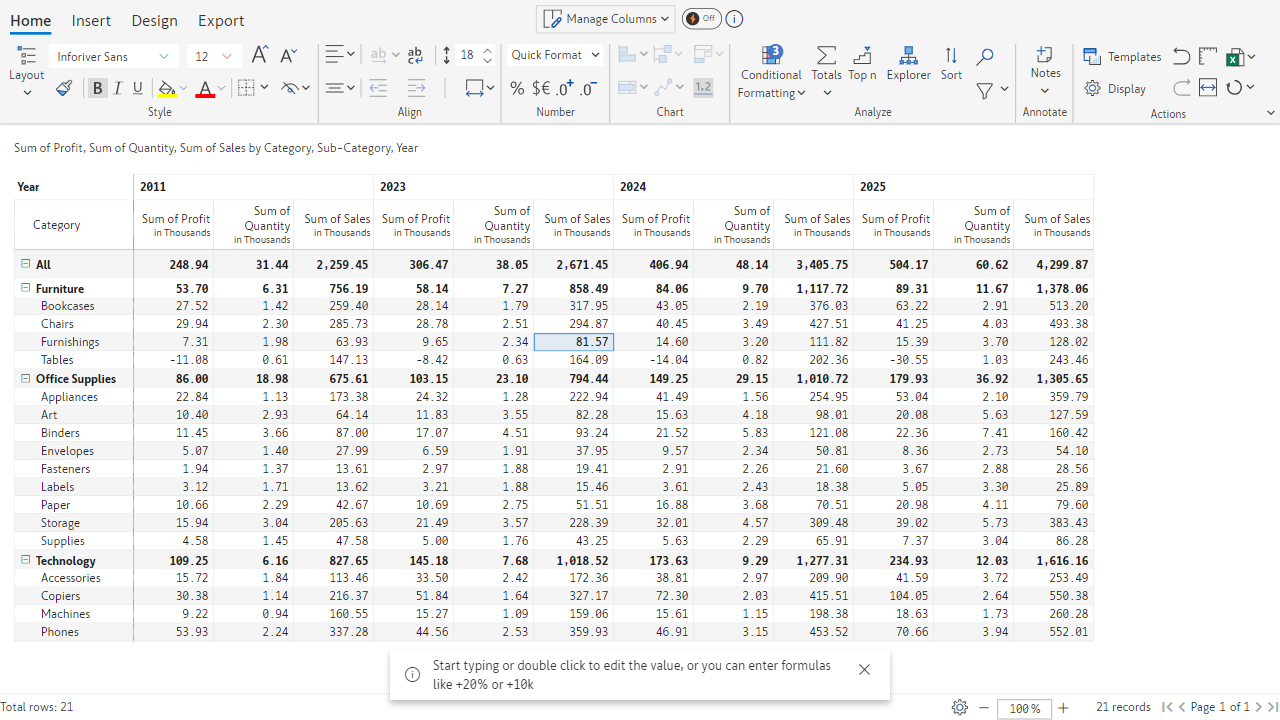
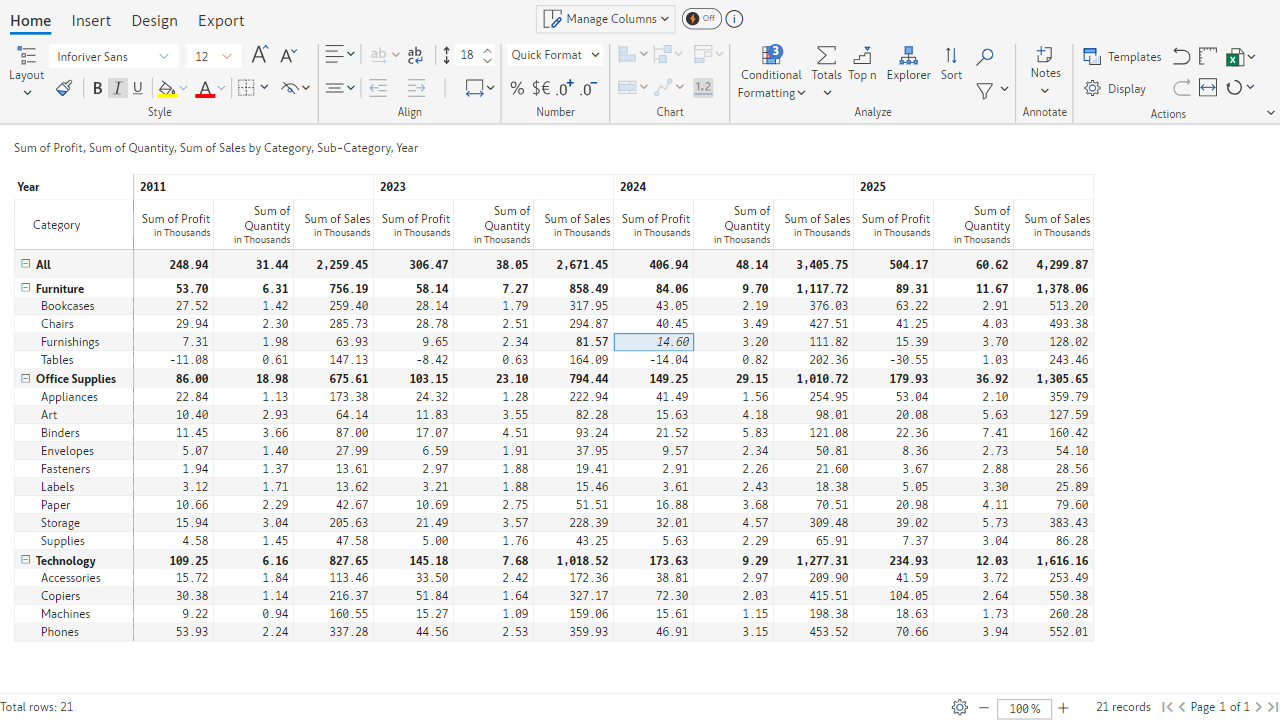
main

Changed region(s): [[0.3125, 0.9167, 0.6875, 0.9778], [0.4062, 0.4583, 0.5625, 0.4889], [0.0625, 0.0917, 0.0938, 0.1528]]

diff --git a/tests/inforiver-matrix-assert/xpaths/xpaths06.js b/tests/inforiver-matrix-assert/xpaths/xpaths06.js
@@ -1,0 +1,55 @@
+
+
+const data06 = require("../data/data06");
+
+const xpaths06 = {
+    tableHeading: `//div[@id='headerEditor']//span[text()='${data06.tableHeading}']`,
+
+    centerHeader: `//span[text()='${data06.centerHeader}']`,
+    rowHeader: `//span[text()='${data06.centerHeader}']/ancestor::div[8]/following-sibling::div//span[text()='${data06.rowHeaderCellValue00}']`,
+    columnHeader: `//span[text()='${data06.centerHeader}']/ancestor::div[5]/following-sibling::div/div[contains(@id,'${data06.yearId00}') and contains(@id,'${data06.metricId00}')]`,
+
+    cellValue: `(//span[@role='cell' and text()='${data06.matrixCellValue00}'])[1]`,
+
+    homeTab: `//ol//span[text()='${data06.tabListItem01}']`,
+    insertTab: `//ol//span[text()='${data06.tabListItem02}']`,
+    designTab: `//ol//span[text()='${data06.tabListItem03}']`,
+    exportTab: `//ol//span[text()='${data06.tabListItem04}']`,
+
+    boldOption: `//div[@data-label='${data06.tabListItem01}']//span[contains(@class,'${data06.boldClass}')]`,
+    underlineOption: `//div[@data-label='${data06.tabListItem01}']//span[contains(@class,'${data06.underlineClass}')]`,
+    italicOption: `//div[@data-label='${data06.tabListItem01}']//span[contains(@class,'${data06.italicClass}')]`,
+
+    fillcolorIcon: `(//div[@data-label = 'Home']//descendant::div[contains(@class,'colorpicker')]/descendant::i)[1]`,
+    fillColorDefaultColor: `//div[@data-label='Home']//div[contains(@class,'colorpicker')]//i[contains(@style, 'border-bottom') and contains(@style, 'rgb(255, 255, 0)')]`,
+    fillColorDropdownArrow: `(//div[@data-label = 'Home']//descendant::div[contains(@class,'colorpicker')]/descendant::i)[2]`,
+    fillColorModal: `//div[@class='bf-ui-colopicker-modal']`,
+    fillColorPaletteColor: `//div[@class='bf-ui-colopicker-modal']/div[@class='bf-ui-colopicker-Palette']//*[local-name()='svg']//*[local-name()='rect' and @fill='${data06.paletteColor}']`,
+
+    fillColorCustomColorBtn: `//div[@class='bf-ui-colopicker-modal']/div[@class='bf-ui-colopicker-Palette']/following-sibling::div[contains(@class,'bf-ui-colopicker-custom-picker-div')]`,
+    fillColorCustomColorModal: `//div[contains(@class,'bf-ui-colopicker-custom-modal')]`,
+    fillColorCustomColorTypeDiv: `//div[@aria-haspopup='listbox']`,
+    fillColorCustomColorTypeDivMenu: `//div[@role='menu']`,
+    fillColorCustomColorTypeDivMenuOption: `//span[text()='${data06.colorCode01}']`,
+    fillColorCustomColorTypeDivMenuResult: `//div[@aria-haspopup='listbox']//*[text()='${data06.colorCode01}']`,
+    fillColorCustomColorColorCodeInput: `//div[@aria-haspopup='listbox']/../following-sibling::div/input`,
+    fillColorModalSaveBtn: `//button[text()='Save']`,
+
+
+    fontcolorIcon: `(//div[@data-label = 'Home']//descendant::div[contains(@class,'colorpicker')]/descendant::i)[3]`,
+    fontcolorDefaultColor: `//div[@data-label='Home']//div[contains(@class,'colorpicker')]//i[contains(@style, 'border-bottom') and contains(@style, 'rgb(255, 0, 10)')]`,
+    fontColorDropdownArrow: `(//div[@data-label = 'Home']//descendant::div[contains(@class,'colorpicker')]/descendant::i)[4]`,
+    fontColorModal: `//div[@class='bf-ui-colopicker-modal']`,
+    fontColorPaletteColor: `//div[@class='bf-ui-colopicker-modal']/div[@class='bf-ui-colopicker-Palette']//*[local-name()='svg']//*[local-name()='rect' and @fill='${data06.paletteColor}']`,
+
+    fontColorCustomColorBtn: `//div[@class='bf-ui-colopicker-modal']/div[@class='bf-ui-colopicker-Palette']/following-sibling::div[contains(@class,'bf-ui-colopicker-custom-picker-div')]`,
+    fontColorCustomColorModal: `//div[contains(@class,'bf-ui-colopicker-custom-modal')]`,
+    fontColorCustomColorTypeDiv: `//div[@aria-haspopup='listbox']`,
+    fontColorCustomColorTypeDivMenu: `//div[@role='menu']`,
+    fontColorCustomColorTypeDivMenuOption: `//span[text()='${data06.colorCode01}']`,
+    fontColorCustomColorTypeDivMenuResult: `//div[@aria-haspopup='listbox']//*[text()='${data06.colorCode01}']`,
+    fontColorCustomColorColorCodeInput: `//div[@aria-haspopup='listbox']/../following-sibling::div/input`,
+    fontColorModalSaveBtn: `//button[text()='Save']`,
+};
+
+module.exports = xpaths06;

diff --git a/tests/inforiver-matrix-assert/pages/StyleSegmentAssert.js b/tests/inforiver-matrix-assert/pages/StyleSegmentAssert.js
@@ -1,0 +1,70 @@
+const { I } = inject();
+const data06 = require('../data/data06')
+const xpaths06 = require('../xpaths/xpaths06')
+const assert = require('assert');
+
+class StyleSegmentAssert {
+    async pageLoad() {
+        await I.amOnPage(data06.webPage);
+    }
+    //bold
+    async assertCellBold() {
+        await I.seeElement(`(//span[@role='cell' and text()='${data06.matrixCellValue00}'])`);
+        //
+        await I.click(`(//span[@role='cell' and text()='${data06.matrixCellValue00}'])[1]`);
+        await I.wait(1);
+        await I.waitForElement(xpaths06.boldOption, 5);
+
+        await I.moveCursorTo(xpaths06.boldOption);
+        await I.wait(1);
+        await I.click(xpaths06.boldOption);
+
+        await I.wait(1);
+        //plain assertion
+        //await I.seeElement(`(//span[@role='cell' and text()='${data06.matrixCellValue00}' and contains(@style, '${data06.boldResultStyle}')])[1]`);
+
+        const actualStyleBold = await I.grabAttributeFrom(`(//span[@role='cell' and text()='${data06.matrixCellValue00}'])[1]`,'style')
+        const expectedStyleBold = actualStyleBold.includes(data06.boldResultStyle)
+        I.assertEqual(expectedStyleBold,true,'error - value mismatch')
+    }
+    //italic
+    async assertCellItalic() {
+        await I.seeElement(`(//span[@role='cell' and text()='${data06.matrixCellValue01}'])[1]`);
+        await I.click(`(//span[@role='cell' and text()='${data06.matrixCellValue01}'])[1]`);
+        await I.wait(1);
+        await I.waitForElement(xpaths06.italicOption, 5);
+
+        await I.moveCursorTo(xpaths06.italicOption);
+        await I.wait(1);
+        await I.click(xpaths06.italicOption);
+
+        await I.wait(1);
+        //plain assert
+        // await I.seeElement(`(//span[@role='cell' and text()='${data06.matrixCellValue01}' and contains(@style, '${data06.italicResultStyle}')])[1]`);
+
+        const actualStyleItalic = await I.grabAttributeFrom(`(//span[@role='cell' and text()='${data06.matrixCellValue01}'])[1]`,'style')
+        const expectedStyleItalic = actualStyleItalic.includes(data06.italicResultStyle)
+        I.assertEqual(expectedStyleItalic,true,'error - value mismatch')
+    }
+
+    async assertCellUnderlined() {
+        await I.seeElement(`(//span[@role='cell' and text()='${data06.matrixCellValue02}'])[1]`);
+        await I.click(`(//span[@role='cell' and text()='${data06.matrixCellValue02}'])[1]`);
+        await I.wait(1);
+        await I.waitForElement(xpaths06.underlineOption, 5);
+
+        await I.moveCursorTo(xpaths06.underlineOption);
+        await I.wait(1);
+        await I.click(xpaths06.underlineOption);
+
+        await I.wait(1);
+        //plain assertion
+        //await I.seeElement(`(//span[@role='cell' and text()='${data06.matrixCellValue06}' and contains(@style, '${data06.underlineResultSyle}')])[1]`);
+
+        const actualStyleUnderlined = await I.grabAttributeFrom(`(//span[@role='cell' and text()='${data06.matrixCellValue02}'])[1]`,'style')
+        const expectedStyleUnderlined = actualStyleUnderlined.includes(data06.underlineResultSyle)
+        I.assertEqual(expectedStyleUnderlined,true,'error - value mismatch')
+    }
+
+}
+module.exports = new StyleSegmentAssert()

diff --git a/tests/inforiver-matrix-assert/data/data06.js b/tests/inforiver-matrix-assert/data/data06.js
@@ -1,0 +1,46 @@
+module.exports = {
+    webPage :'https://inforiver-webtest-premium.azurewebsites.net/?csvLocation=CF_REG-03.csv&config=CF_REG-03.json&URLLoad=true',
+    
+    tableHeading:'Sum of Profit, Sum of Quantity, Sum of Sales by Category, Sub-Category, Year',
+
+    centerHeader:'Category',
+
+    rowHeaderCellValue00:'Furnishings',
+    rowHeaderCellValue01:'Tables',
+    rowHeaderCellValue02:'Chairs',
+
+    matrixCellValue00:'81.57',
+    matrixCellValue01:'14.60',
+    matrixCellValue02:'2.34',
+    matrixCellValue03:'294.87',
+    matrixCellValue04:'164.09',
+    matrixCellValue05:'2.51',
+    matrixCellValue06:'40.45',
+    matrixCellValue07:'0.63',
+    matrixCellValue08:'-14.04',
+
+
+    yearId00: '2011',//column header
+    metricId00: 'Profit',//column subheader
+    metricId00Full:'Sum of Profit',
+
+    tabListItem01:'Home',
+    tabListItem02:'Insert',
+    tabListItem03:'Design',
+    tabListItem04:'Export',
+
+    boldClass:'bold',
+    boldResultStyle:'font-weight',
+
+    underlineClass:'underline',
+    underlineResultSyle:'text-decoration-line: underline',
+
+    italicClass:'italic',
+    italicResultStyle:'font-style: italic',
+
+    paletteColor:'#118dff',
+    colorCode01:'Hex',
+
+
+
+}

diff --git a/tests/inforiver-matrix-assert/tests/test05.js b/tests/inforiver-matrix-assert/tests/test05.js
@@ -1,12 +1,12 @@
-const MainPage = require('../pages/MainPage')
+const MainPageAssert = require('../pages/MainPageAssert')
 
 Feature('Test 1 - asserting main page and elements')
 Before(async()=>{
-    await MainPage.pageLoad()
+    await MainPageAssert.pageLoad()
 })
 Scenario('Scenario 1 - visibility of elements', async() =>{
-    await MainPage.assertTableHeading()//table heading
-    await MainPage.assertTableHeaders()//table headers
-    await MainPage.assertCells()       //table cells
-    await MainPage.assertTabList()     //tab lists
+    await MainPageAssert.assertTableHeading()//table heading
+    await MainPageAssert.assertTableHeaders()//table headers
+    await MainPageAssert.assertCells()       //table cells
+    await MainPageAssert.assertTabList()     //tab lists
 })

diff --git a/tests/inforiver-matrix-assert/tests/test06.js b/tests/inforiver-matrix-assert/tests/test06.js
@@ -1,0 +1,12 @@
+
+const StyleSegmentAssert = require('../pages/StyleSegmentAssert')
+
+Feature('Test 2 - style segment assert')
+Before(async()=>{
+    await StyleSegmentAssert.pageLoad()
+})
+Scenario('Bold , Italic , Underline', async()=>{
+    await StyleSegmentAssert.assertCellBold()
+    await StyleSegmentAssert.assertCellItalic()
+    await StyleSegmentAssert.assertCellUnderlined()
+})

diff --git a/tests/inforiver-matrix-assert/pages/MainPageAssert.js b/tests/inforiver-matrix-assert/pages/MainPageAssert.js
@@ -3,7 +3,7 @@ const data05 = require('../data/data05')
 const xpaths05 = require('../xpaths/xpaths05')
 const assert = require('assert');
 
-class mainPage {
+class MainPage {
 
     async pageLoad() {
         await I.amOnPage(data05.webPage);
@@ -53,4 +53,4 @@ class mainPage {
     }
 
 }
-module.exports = new mainPage()
+module.exports = new MainPage()
